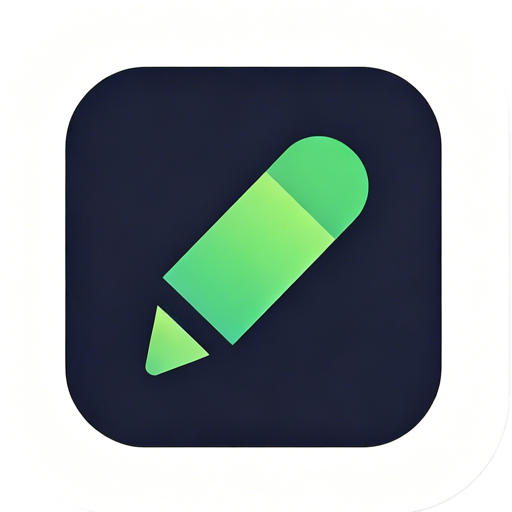
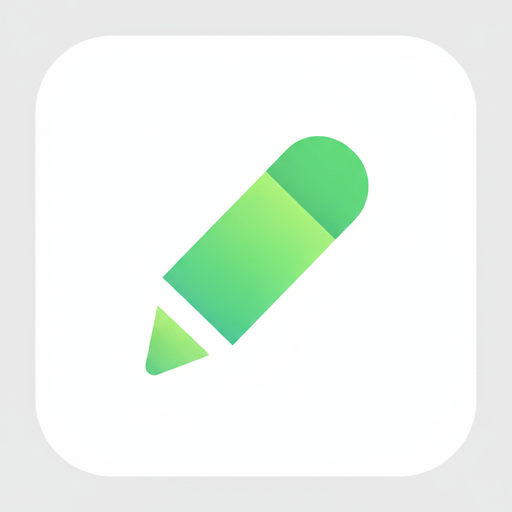
图标替换为 icon2，背景改为纯白 #ffffff

diff --git a/style.css b/style.css
@@ -3,7 +3,7 @@
 *, *::before, *::after { box-sizing: border-box; margin: 0; padding: 0; }
 
 :root {
-  --bg:          #fafafa;
+  --bg:          #ffffff;
   --surface:     #ffffff;
   --surface-2:   #f5f5f5;
   --surface-3:   #ebebeb;
@@ -44,7 +44,7 @@ html, body {
 /* ─── Header ─── */
 .header {
   position: fixed; top: 0; left: 0; right: 0; z-index: 100;
-  background: rgba(250,250,250,0.92);
+  background: rgba(255,255,255,0.92);
   backdrop-filter: blur(16px);
   -webkit-backdrop-filter: blur(16px);
   padding: env(safe-area-inset-top) 0 0;
@@ -106,7 +106,7 @@ html, body {
   position: fixed;
   top: calc(env(safe-area-inset-top) + 48px);
   left: 0; right: 0; z-index: 99;
-  background: rgba(250,250,250,0.92);
+  background: rgba(255,255,255,0.92);
   backdrop-filter: blur(16px);
   -webkit-backdrop-filter: blur(16px);
   border-bottom: 1px solid var(--border);
@@ -510,7 +510,7 @@ html, body {
 /* ─── Bottom nav ─── */
 .bottom-nav {
   position: fixed; bottom: 0; left: 0; right: 0; z-index: 200;
-  background: rgba(250,250,250,0.92);
+  background: rgba(255,255,255,0.92);
   backdrop-filter: blur(16px);
   -webkit-backdrop-filter: blur(16px);
   border-top: 1px solid var(--border);
@@ -779,7 +779,7 @@ html, body {
   position: fixed;
   top: calc(env(safe-area-inset-top) + 48px);
   left: 0; right: 0; z-index: 99;
-  background: rgba(250,250,250,0.92);
+  background: rgba(255,255,255,0.92);
   backdrop-filter: blur(16px);
   -webkit-backdrop-filter: blur(16px);
   border-bottom: 1px solid var(--border);

diff --git a/index.html b/index.html
@@ -3,7 +3,7 @@
 <head>
   <meta charset="UTF-8">
   <meta name="viewport" content="width=device-width, initial-scale=1.0, viewport-fit=cover, user-scalable=no">
-  <meta name="theme-color" content="#fafafa">
+  <meta name="theme-color" content="#ffffff">
   <meta name="apple-mobile-web-app-capable" content="yes">
   <meta name="apple-mobile-web-app-status-bar-style" content="black-translucent">
   <meta name="apple-mobile-web-app-title" content="备忘录">